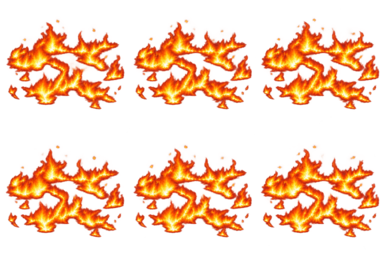
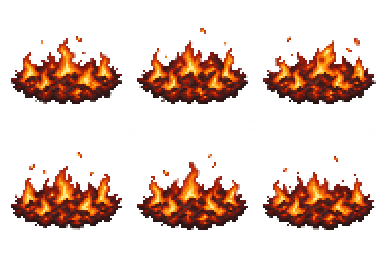
Replace floor fire and add circular fading darkness

diff --git a/lwjgl3/src/witchRegression/java/com/github/shahamatirtisham/promise_beneath_the_storm/EnvironmentVisualRegressionTest.java b/lwjgl3/src/witchRegression/java/com/github/shahamatirtisham/promise_beneath_the_storm/EnvironmentVisualRegressionTest.java
@@ -1,0 +1,74 @@
+package com.github.shahamatirtisham.promise_beneath_the_storm;
+
+import com.badlogic.gdx.ApplicationAdapter;
+import com.badlogic.gdx.Gdx;
+import com.badlogic.gdx.backends.lwjgl3.Lwjgl3Application;
+import com.badlogic.gdx.backends.lwjgl3.Lwjgl3ApplicationConfiguration;
+import com.badlogic.gdx.graphics.GL20;
+import com.badlogic.gdx.graphics.Pixmap;
+import com.badlogic.gdx.graphics.glutils.ShapeRenderer;
+import com.badlogic.gdx.math.Matrix4;
+import com.badlogic.gdx.maps.tiled.TiledMap;
+import com.badlogic.gdx.maps.tiled.TmxMapLoader;
+import com.github.shahamatirtisham.promise_beneath_the_storm.ui.DarknessOverlay;
+
+/** Real GL coverage: a bright world cannot leak through the outer darkness. */
+public final class EnvironmentVisualRegressionTest extends ApplicationAdapter {
+    private static Throwable failure;
+    public static void main(String[] args) {
+        Lwjgl3ApplicationConfiguration config = new Lwjgl3ApplicationConfiguration();
+        config.setInitialVisible(false);
+        config.setWindowedMode(400, 400);
+        config.disableAudio(true);
+        new Lwjgl3Application(new EnvironmentVisualRegressionTest(), config);
+        if (failure != null) throw new AssertionError("Environment visual regression", failure);
+        System.out.println("Environment visuals passed: circular fade, opaque exterior, fire sheets and TMX loading");
+    }
+    @Override public void create() {
+        ShapeRenderer shapes = new ShapeRenderer();
+        try {
+            Gdx.gl.glViewport(0, 0, 400, 400);
+            Gdx.gl.glClearColor(1, 1, 1, 1);
+            Gdx.gl.glClear(GL20.GL_COLOR_BUFFER_BIT);
+            Gdx.gl.glEnable(GL20.GL_BLEND);
+            Gdx.gl.glBlendFunc(GL20.GL_SRC_ALPHA, GL20.GL_ONE_MINUS_SRC_ALPHA);
+            shapes.setProjectionMatrix(new Matrix4().setToOrtho2D(-5, -5, 10, 10));
+            shapes.begin(ShapeRenderer.ShapeType.Filled);
+            new DarknessOverlay().draw(shapes, 0, 0, 20);
+            shapes.end();
+            Pixmap pixels = Pixmap.createFromFrameBuffer(0, 0, 400, 400);
+            try {
+                check(red(pixels, 200, 200) > 250, "center is clear");
+                int fade = red(pixels, 318, 200);
+                check(fade > 80 && fade < 180, "soft midpoint");
+                check(Math.abs(fade - red(pixels, 200, 318)) < 5, "circular symmetry");
+                check(red(pixels, 360, 200) < 5, "outer world completely hidden");
+                check(red(pixels, 304, 304) < 5, "old square corners now hidden");
+            } finally { pixels.dispose(); }
+            for (int i = 1; i <= 2; i++) {
+                String path = "maps/fire_regioen_small_" + i + ".png";
+                check(java.util.Arrays.equals(Gdx.files.local(path).readBytes(),
+                    Gdx.files.classpath(path).readBytes()), "classpath fire matches source assets (no stale duplicate)");
+                Pixmap fire = new Pixmap(Gdx.files.internal("maps/fire_regioen_small_" + i + ".png"));
+                try {
+                    int size = i == 1 ? 128 : 80;
+                    check(fire.getWidth() == size*3 && fire.getHeight() == size*2, "fire sheet dimensions");
+                    for (int frame = 0; frame < 6; frame++) {
+                        boolean visible = false;
+                        for (int y = 0; y < size; y++) for (int x = 0; x < size; x++)
+                            visible |= (fire.getPixel(frame%3*size+x, frame/3*size+y) & 255) > 0;
+                        check(visible, "nonempty fire animation frame");
+                    }
+                } finally { fire.dispose(); }
+            }
+            TiledMap map = new TmxMapLoader().load("maps/room_fire.tmx");
+            try { check(map.getLayers().get("fire tile") != null, "fire map loads"); }
+            finally { map.dispose(); }
+        } catch (Throwable ex) { failure = ex; }
+        finally { shapes.dispose(); Gdx.app.exit(); }
+    }
+    private static int red(Pixmap image, int x, int y) { return image.getPixel(x, y) >>> 24; }
+    private static void check(boolean condition, String message) {
+        if (!condition) throw new AssertionError(message);
+    }
+}

diff --git a/core/src/main/java/com/github/shahamatirtisham/promise_beneath_the_storm/screens/GameScreen.java b/core/src/main/java/com/github/shahamatirtisham/promise_beneath_the_storm/screens/GameScreen.java
@@ -185,6 +185,8 @@ public class GameScreen implements Screen {
     private boolean levelComplete;
     private boolean bossMode;
     private boolean bossVictory;
+    private final com.github.shahamatirtisham.promise_beneath_the_storm.ui.DarknessOverlay darknessOverlay =
+        new com.github.shahamatirtisham.promise_beneath_the_storm.ui.DarknessOverlay();
     private boolean bossVictoryOverlayShown;
     private int checkpointReached;
     private final RunCheckpoint checkpoint = new RunCheckpoint();
@@ -1301,13 +1303,6 @@ public class GameScreen implements Screen {
         }
         shapeRenderer.end();
 
-        // Darkness is the last normal world layer: sprites, bodies and telegraphs
-        // cannot appear above it. Debug overlays and the HUD remain available.
-        shapeRenderer.begin(ShapeRenderer.ShapeType.Filled);
-        drawDarknessOverlay(playerPos);
-        shapeRenderer.end();
-        Gdx.gl.glDisable(GL20.GL_BLEND);
-
         if (debugRenderingEnabled) {
             // Draw debug outlines separately so the room is not filled in.
             shapeRenderer.begin(ShapeRenderer.ShapeType.Line);
@@ -1355,6 +1350,12 @@ public class GameScreen implements Screen {
             // Draw Box2D debug (shows collision shapes).
             debugRenderer.render(world, camera.combined);
         }
+
+        // Composite last so even debug bodies/health bars cannot reveal hidden enemies.
+        shapeRenderer.begin(ShapeRenderer.ShapeType.Filled);
+        drawDarknessOverlay(playerPos);
+        shapeRenderer.end();
+        Gdx.gl.glDisable(GL20.GL_BLEND);
 
         hud.update(
             playerHealth,
@@ -3229,34 +3230,13 @@ public class GameScreen implements Screen {
             return;
         }
 
-        float visionRadius = 3.5f;
-        float visionLeft = Math.max(0f, playerPosition.x - visionRadius);
-        float visionRight = Math.min(room.width, playerPosition.x + visionRadius);
-        float visionBottom = Math.max(0f, playerPosition.y - visionRadius);
-        float visionTop = Math.min(room.height, playerPosition.y + visionRadius);
-
         Gdx.gl.glEnable(GL20.GL_BLEND);
         Gdx.gl.glBlendFunc(GL20.GL_SRC_ALPHA, GL20.GL_ONE_MINUS_SRC_ALPHA);
-        shapeRenderer.setColor(0.005f, 0.005f, 0.018f, 1f);
-        shapeRenderer.rect(0f, 0f, visionLeft, room.height);
-        shapeRenderer.rect(
-            visionRight,
-            0f,
-            Math.max(0f, room.width - visionRight),
-            room.height
-        );
-        shapeRenderer.rect(
-            visionLeft,
-            0f,
-            Math.max(0f, visionRight - visionLeft),
-            visionBottom
-        );
-        shapeRenderer.rect(
-            visionLeft,
-            visionTop,
-            Math.max(0f, visionRight - visionLeft),
-            Math.max(0f, room.height - visionTop)
-        );
+        // Cover the entire camera, including letterbox-edge world coordinates.
+        float farRadius = (camera.viewportWidth + camera.viewportHeight) * camera.zoom
+            + Math.abs(camera.position.x - playerPosition.x)
+            + Math.abs(camera.position.y - playerPosition.y) + 2f;
+        darknessOverlay.draw(shapeRenderer, playerPosition.x, playerPosition.y, farRadius);
     }
 
     private void drawEnemy(

diff --git a/core/src/main/java/com/github/shahamatirtisham/promise_beneath_the_storm/ui/DarknessOverlay.java b/core/src/main/java/com/github/shahamatirtisham/promise_beneath_the_storm/ui/DarknessOverlay.java
@@ -1,0 +1,40 @@
+package com.github.shahamatirtisham.promise_beneath_the_storm.ui;
+
+import com.badlogic.gdx.graphics.Color;
+import com.badlogic.gdx.graphics.glutils.ShapeRenderer;
+
+/** World-space circular visibility mask, drawn after every world/debug layer. */
+public final class DarknessOverlay {
+    public static final float CLEAR_RADIUS = 2.4f;
+    public static final float OUTER_RADIUS = 3.5f;
+    private static final int SEGMENTS = 96;
+    private static final int BANDS = 16;
+    private final Color inner = new Color();
+    private final Color outer = new Color();
+
+    public static float opacity(float distance) {
+        float t = Math.max(0f, Math.min(1f,
+            (distance - CLEAR_RADIUS) / (OUTER_RADIUS - CLEAR_RADIUS)));
+        return t * t * (3f - 2f * t);
+    }
+
+    public void draw(ShapeRenderer renderer, float x, float y, float farRadius) {
+        for (int band = 0; band <= BANDS; band++) {
+            float r0 = CLEAR_RADIUS + (OUTER_RADIUS - CLEAR_RADIUS) * band / BANDS;
+            float r1 = band == BANDS ? Math.max(farRadius, OUTER_RADIUS + 1f)
+                : CLEAR_RADIUS + (OUTER_RADIUS - CLEAR_RADIUS) * (band + 1) / BANDS;
+            inner.set(0.005f, 0.005f, 0.018f, opacity(r0));
+            outer.set(0.005f, 0.005f, 0.018f, opacity(r1));
+            for (int i = 0; i < SEGMENTS; i++) {
+                double a = Math.PI * 2 * i / SEGMENTS;
+                double b = Math.PI * 2 * (i + 1) / SEGMENTS;
+                float ax = (float) Math.cos(a), ay = (float) Math.sin(a);
+                float bx = (float) Math.cos(b), by = (float) Math.sin(b);
+                renderer.triangle(x + ax*r0, y + ay*r0, x + ax*r1, y + ay*r1,
+                    x + bx*r1, y + by*r1, inner, outer, outer);
+                renderer.triangle(x + ax*r0, y + ay*r0, x + bx*r1, y + by*r1,
+                    x + bx*r0, y + by*r0, inner, outer, inner);
+            }
+        }
+    }
+}
